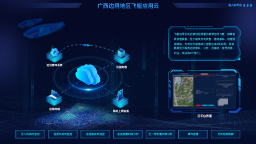
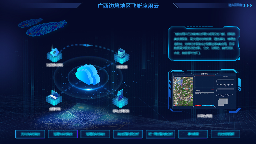
飞艇页面动画修改

diff --git a/feiting.html b/feiting.html
@@ -30,8 +30,10 @@
                     if(json.title) document.title = json.title;
                     dataModel.deserialize(json);
                     graphView.fitContent(true);
-                    scaleBgCircle(dataModel)
+                    // scaleBgCircle(dataModel)
                     lineFlow(dataModel)
+                    cloudAnimation(dataModel)
+                    airshipAnimation(dataModel)
                 });
             }
 
@@ -42,6 +44,7 @@
                         property: "width",
                         from: ftroll.getWidth() -30, 
                         to: ftroll.getWidth() + 100,
+                        frames: 35,
                         next: "collapseWidth"
                     },
                     collapseWidth: {
@@ -92,6 +95,101 @@
                 }, 50)
             }
 
+            // 中间云朵动画
+            function cloudAnimation(dm) {
+                const cloudBlock = dm.getDataByTag('ft_cloud_block')
+                cloudBlock.s('opacity', 1)
+                // var isHide = true
+                // var isShow = false
+                // setInterval(function() {
+                //     var beforeOpacity = cloudBlock.s('opacity')
+                //     if (beforeOpacity <= 0.3) {
+                //         isHide = true
+                //         isShow = false
+                //     }else if (beforeOpacity >=1) {
+                //         isShow = true
+                //         isHide = false
+                //     }
+                //     if (isHide) {
+                //         cloudBlock.s('opacity',beforeOpacity + 0.02 )
+                //     } else if (isShow) {
+                //         cloudBlock.s('opacity',beforeOpacity - 0.02 )
+                //     }
+                // }, 50)
+                cloudBlock.setAnimation({
+                    hide: {
+                            property: "opacity",
+                            accessType: "style", 
+                            from: 1, 
+                            to: 0.2,
+                            duration: 3000,
+                            next: "show"
+                        },
+                        show: {
+                            property: "opacity",
+                            accessType: "style", 
+                            from: 0.2, 
+                            to: 1,
+                            duration: 4000,
+                            next: "hide"
+                        },
+                        start: ["hide"]
+                })
+
+            }
+
+            // 左上角飞艇动画
+            function airshipAnimation(dm) {
+                const feitingFigFirst = dm.getDataByTag('feiting_fig_first')
+                const feitingSecond = dm.getDataByTag('feiting_fig_second')
+                feitingFigFirst.setAnimation({
+                    up: {
+                        from: feitingFigFirst.getPosition().y - 25, 
+                        to: feitingFigFirst.getPosition().y + 25,
+                        frames: 180,
+                        easing: "Linear",
+                        next: "down",
+                        onUpdate: function(value) {
+                            this.setPosition(this.getPosition().y, value);
+                        }
+                    },
+                    down: {
+                        from: feitingFigFirst.getPosition().y + 25, 
+                        to: feitingFigFirst.getPosition().y - 25,
+                        easing: "Linear",
+                        frames: 200,
+                        next: "up",
+                        onUpdate: function(value) {
+                            this.setPosition(this.getPosition().y, value);
+                        }
+                    },
+                    start: ["up"]
+                });
+
+                feitingSecond.setAnimation({
+                    up: {
+                        from: feitingFigFirst.getPosition().y - 10, 
+                        to: feitingFigFirst.getPosition().y + 10,
+                        frames: 250,
+                        easing: "Linear",
+                        next: "down",
+                        onUpdate: function(value) {
+                            this.setPosition(this.getPosition().y, value);
+                        }
+                    },
+                    down: {
+                        from: feitingFigFirst.getPosition().y + 10, 
+                        to: feitingFigFirst.getPosition().y - 10,
+                        easing: "Linear",
+                        frames: 250,
+                        next: "up",
+                        onUpdate: function(value) {
+                            this.setPosition(this.getPosition().y, value);
+                        }
+                    },
+                    start: ["up"]
+                });
+            }
         </script>
     </head>
     <body onload='setTimeout(init, 300)'>
